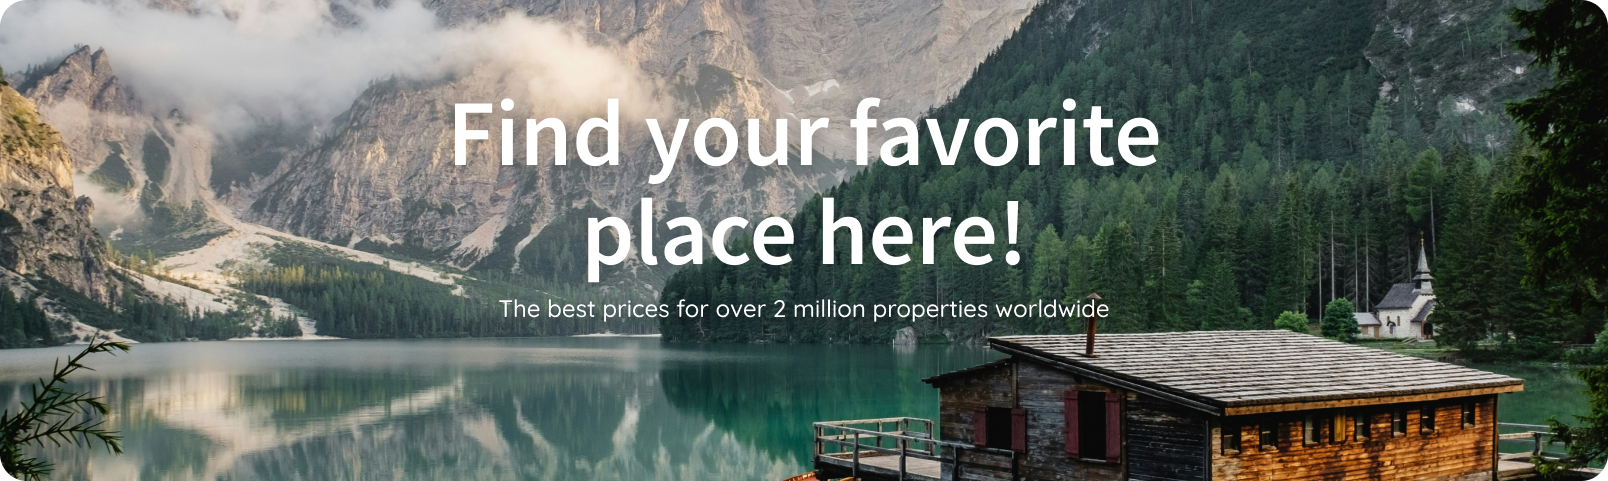
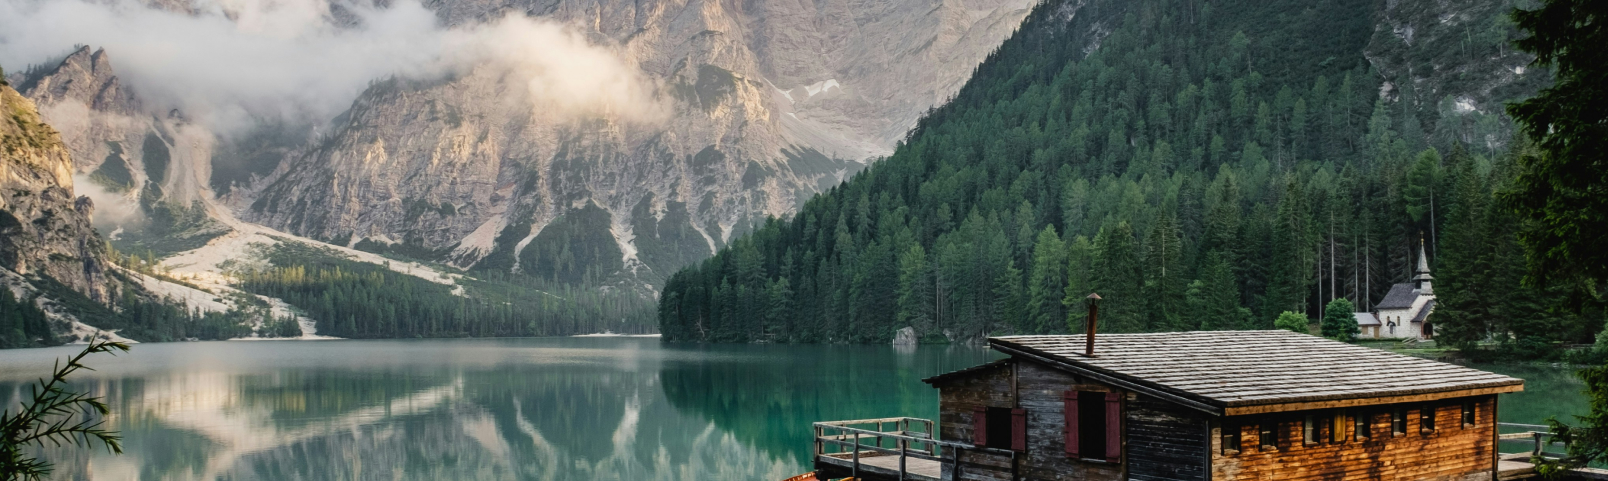
feat: Create PropertyListingFilter with CustomSelect dropdown
- Created PropertyListingFilter component with filter options
- Created CustomSelect custom dropdown component for sorting
- Implemented state management for filter and sort selection
- Extracted filter and sort options to data file
- Styled active/inactive states with Tailwind
- Added custom dropdown icon using react-icons
- Filter options are selectable with visual feedback
- Sort dropdown has full styling control (no browser default)

diff --git a/Frontend/src/components/PropertyListingFilter.tsx b/Frontend/src/components/PropertyListingFilter.tsx
@@ -1,0 +1,56 @@
+import { useState } from "react";
+import { MdOutlineFilterAlt } from "react-icons/md";
+import { Button } from "./Button";
+import { CustomSelect } from "./CustomSelect";
+import { filterOptions, sortOptions } from "../data/propertyListingFilters";
+
+const PropertyListingFilter = () => {
+  const [selectedFilter, setSelectedFilter] = useState<number>(1);
+  const [selectedSort, setSelectedSort] = useState<string>("Newest");
+  const [isFilterOpen, setIsFilterOpen] = useState(false);
+
+
+  return (
+    <div className="flex place-content-between px-8 text-[12px] mb-[37px] font-semibold font-[Quicksand]">
+      {/* Left side - Filter options */}
+      <div className="flex gap-3 overflow-x-auto scrollbar-hide">
+        {filterOptions.map((option) => (
+          <Button
+            key={option.id}
+            onClick={() => setSelectedFilter(option.id)}
+            className={`px-4 h-8 rounded-full transition-colors whitespace-nowrap flex-shrink-0 ${
+              selectedFilter === option.id
+                ? " text-[#34967C] border border-[#34967C]"
+                : "border border-[#ECECEC] text-gray-800 hover:bg-gray-100"
+            }`}
+          >
+            {option.name}
+          </Button>
+        ))}
+      </div>
+
+      {/* Right side - Filter and Sort buttons */}
+      <div className="flex gap-2 ml-auto">
+        <Button
+          onClick={() => setIsFilterOpen(!isFilterOpen)}
+          className={`flex items-center gap-1 px-4 h-8 rounded-full transition-colors ${
+            isFilterOpen
+              ? "text-[#34967C] border border-[#34967C]"
+              : "border border-[#ECECEC] text-gray-800 hover:bg-gray-100"
+          }`}
+        >
+          <MdOutlineFilterAlt className="w-5 h-5" />
+          <span>Filter</span>
+        </Button>
+
+        <CustomSelect
+          options={sortOptions}
+          value={selectedSort}
+          onChange={setSelectedSort}
+        />
+      </div>
+    </div>
+  );
+};
+
+export default PropertyListingFilter;

diff --git a/Frontend/src/components/PropertyTypeFilter.tsx b/Frontend/src/components/PropertyTypeFilter.tsx
@@ -2,23 +2,23 @@ import { useState } from "react";
 import { propertyCategories } from "../data/propertyCategories";
 
 
-function PropertyTypeFilter(): JSX.Element {
+function PropertyTypeFilter()  {
   const [selected, setSelected] = useState<number>(1);
 
   return (
-    <div className="sticky top-[72px] h-[84px] flex overflow-x-auto gap-[43px] py-4 px-8 backdrop-blur-[54px]   scrollbar-hide border-[#FDFDFD] border-b">
+    <div className="sticky top-20 h-21 flex overflow-x-auto gap-10.75 py-4 px-8 backdrop-blur-[54px]   scrollbar-hide border-[#FDFDFD] border-b">
       {propertyCategories.map((category) => (
         <button
           key={category.id}
           onClick={() => setSelected(category.id)}
-          className={`flex flex-col items-center gap-2 pb-14 whitespace-nowrap shrink-0 hover:scale-110 hover:brightness-110 transition-all duration-200 ${
+          className={`flex flex-col items-center gap-2 pb-14 whitespace-nowrap shrink-0 hover:scale-110 hover:brightness-110 hover:cursor-pointer transition-all duration-200 ${
             selected === category.id
               ? "border-b-2  border-gray-800"
               : "border-b-2 border-transparent"
           }`}
         >
           <img src={category.icon} alt={category.name} className="w-6 h-6 " />
-          <span className="text-[12px]  text-[#616161] font-[500] font-[Quicksand]">
+          <span className="text-[12px]  text-[#616161] font-medium font-[Quicksand]">
             {category.name}
           </span>
         </button>

diff --git a/Frontend/src/components/CustomSelect.tsx b/Frontend/src/components/CustomSelect.tsx
@@ -1,0 +1,50 @@
+import { useState } from "react";
+
+interface CustomSelectProps {
+  options: string[];
+  value: string;
+  onChange: (value: string) => void;
+  label?: string;
+}
+
+export const CustomSelect = ({
+  options,
+  value,
+  onChange,
+  label = "Sort by:",
+}: CustomSelectProps) => {
+  const [isOpen, setIsOpen] = useState(false);
+
+  return (
+    <div className="relative">
+      <button
+        onClick={() => setIsOpen(!isOpen)}
+        className="border border-[#ECECEC] px-4 h-8 rounded-full bg-white hover:bg-gray-50 flex items-center gap-1 transition-colors"
+      >
+        <span className="text-[#616161]">{label}</span>
+        <span className="ml-1 text-black">{value}</span>
+      </button>
+
+      {isOpen && (
+        <div className="absolute top-10 right-0 w-48 bg-white border border-[#ECECEC] rounded-lg shadow-lg z-10">
+          {options.map((option) => (
+            <button
+              key={option}
+              onClick={() => {
+                onChange(option);
+                setIsOpen(false);
+              }}
+              className={`w-full text-left px-4 py-2 text-[12px] transition-colors ${
+                value === option
+                  ? "bg-[#34967C] text-white"
+                  : "text-[#616161] hover:bg-gray-50"
+              }`}
+            >
+              {option}
+            </button>
+          ))}
+        </div>
+      )}
+    </div>
+  );
+};

diff --git a/Frontend/src/components/Topbar.tsx b/Frontend/src/components/Topbar.tsx
@@ -3,7 +3,7 @@ import { Button } from "./Button";
 
 function Topbar() {
   return (
-    <div className=" bg-[#34967C] flex items-center justify-center text-white p-2 gap-4 z-10">
+    <div className=" bg-[#34967C] flex items-center justify-center text-white p-2 gap-4 z-10 font-[Quicksand]">
       <svg
         width="24"
         height="24"
@@ -41,11 +41,11 @@ function Topbar() {
         />
       </svg>
 
-      <p className="text-base font-[Quicksand] ">
+      <p className="">
         Overseas trip? Get the latest information on travel guides
       </p>
-      <Button className="bg-[#161117] w-[86px] h-[30px] py-[6px] px-[11px] rounded-4xl text-[14px] font-[Quicksand] font-[500] text-center hover:bg-gray-800 hover:shadow-md transition-all duration-200">
-        More Info{" "}
+      <Button className="bg-[#161117] w-21.5 h-7.5 py-1.5 px-2.75 rounded-full text-[12px] font-medium text-center hover:bg-gray-800 hover:shadow-md transition-all duration-200">
+        More Info
       </Button>
     </div>
   );

diff --git a/Frontend/src/components/Hero.tsx b/Frontend/src/components/Hero.tsx
@@ -1,12 +1,12 @@
 function Hero() {
   return (
-    <div className="px-8 my-8">
-      <div className="bg-[url(/images/hero1.jpg)] bg-no-repeat bg-cover w-full h-[350px] rounded-xl bg-right flex justify-center items-center">
+    <div className="px-8 mt-8 mb-11.75">
+      <div className="bg-[url(/images/hero.jpg)] bg-no-repeat bg-cover w-full h-87.5 rounded-xl bg-right flex justify-center items-center">
         <div className="flex justify-center items-center flex-col text-white text-center">
-          <h1 className="text-[94px] mb-[24px] leading-none font-[600] font-hero ">
+          <h1 className="text-[94px] mb-6 leading-none font-semibold font-hero ">
             Find your favorite <br /> place here!
           </h1>
-          <p className="font-[Quicksand] text-[24px] mb-[24px] leading-none font-medium">
+          <p className="font-[Quicksand] text-[24px] mb-6 leading-none font-medium">
             The best prices for over 2 million properties worldwide
           </p>
         </div>

diff --git a/Frontend/src/pages/Homepage.tsx b/Frontend/src/pages/Homepage.tsx
@@ -2,19 +2,19 @@ import Topbar from "../components/Topbar";
 import Navbar from "../components/Navbar";
 import PropertyTypeFilter from "../components/PropertyTypeFilter";
 import Hero from "../components/Hero";
+import PropertyListing from "../components/PropertyListingFilter";
 
 function Homepage() {
   return (
-    
-      <div className="">
-        <Topbar />
-        <Navbar />
+    <div className="">
+      <Topbar />
+      <Navbar />
 
-        <PropertyTypeFilter />
-        <Hero />
-      </div>
-    
+      <PropertyTypeFilter />
+      <Hero />
+      <PropertyListing />
+    </div>
   );
 }
 
-export default Homepage
+export default Homepage;

diff --git a/Frontend/src/components/Navbar.tsx b/Frontend/src/components/Navbar.tsx
@@ -12,10 +12,10 @@ function Navbar() {
         </div>
 
         <div className="flex items-center gap-4 shrink-0">
-          <Button className="bg-[#34967C] text-white rounded-full px-6 hover:bg-[#2a7a65] transition-colors">
+          <Button className="bg-[#34967C] text-white rounded-full px-6 hover:bg-[#2a7a65] transition-colors w-25 h-10 ">
             Sign In
           </Button>
-          <Button className="border border-[#ECECEC] px-6 hover:bg-gray-50 transition-colors">
+          <Button className="border border-[#ECECEC] px-6 hover:bg-gray-50 w-25 h-10 rounded-full transition-colors">
             Sign Up
           </Button>
         </div>

diff --git a/Frontend/src/data/propertyListingFilters.ts b/Frontend/src/data/propertyListingFilters.ts
@@ -1,0 +1,21 @@
+export interface FilterOption {
+  id: number;
+  name: string;
+  icon?: string;
+}
+
+export const filterOptions: FilterOption[] = [
+  { id: 1, name: "All" },
+  { id: 2, name: "Top Villa" },
+  { id: 3, name: "Free Reschedule" },
+  { id: 4, name: "Book Now, Pay later" },
+  { id: 5, name: "Self CheckIn" },
+  { id: 6, name: "Instant Book" },
+];
+
+export const sortOptions = [
+  "Highest Price",
+  "Lowest Price",
+  "Most Popular",
+  "Newest",
+];

diff --git a/Frontend/src/components/Button.tsx b/Frontend/src/components/Button.tsx
@@ -17,7 +17,7 @@ export const Button: React.FC<ButtonProps> = ({
     <button
       onClick={onClick}
       disabled={disabled || isLoading}
-      className={`w-[100px] h-[40px]  cursor-pointer whitespace-nowrap rounded-full ${className}`}
+      className={` cursor-pointer whitespace-nowrap rounded-full ${className}`}
     >
       {isLoading ? "Loading..." : children}
     </button>
